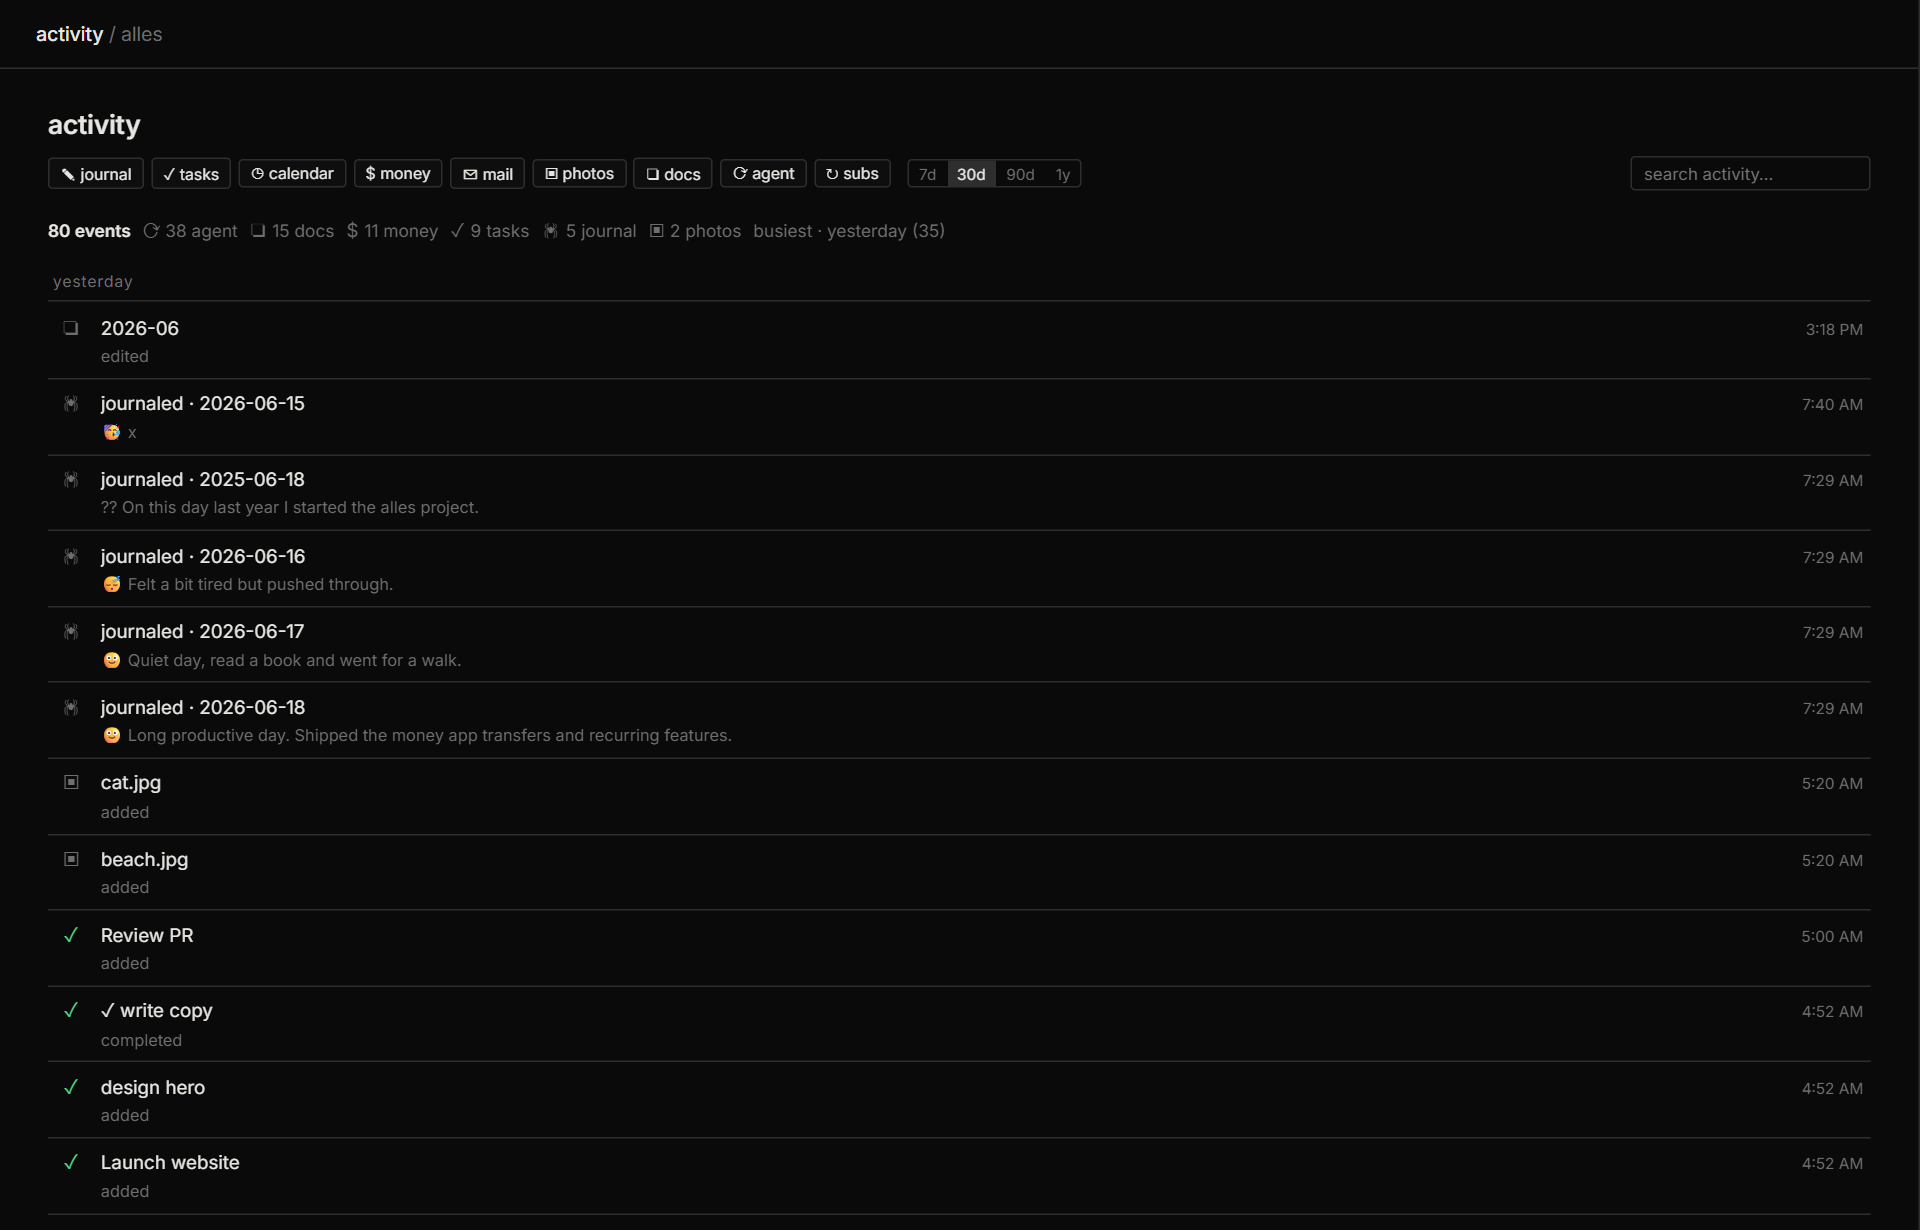
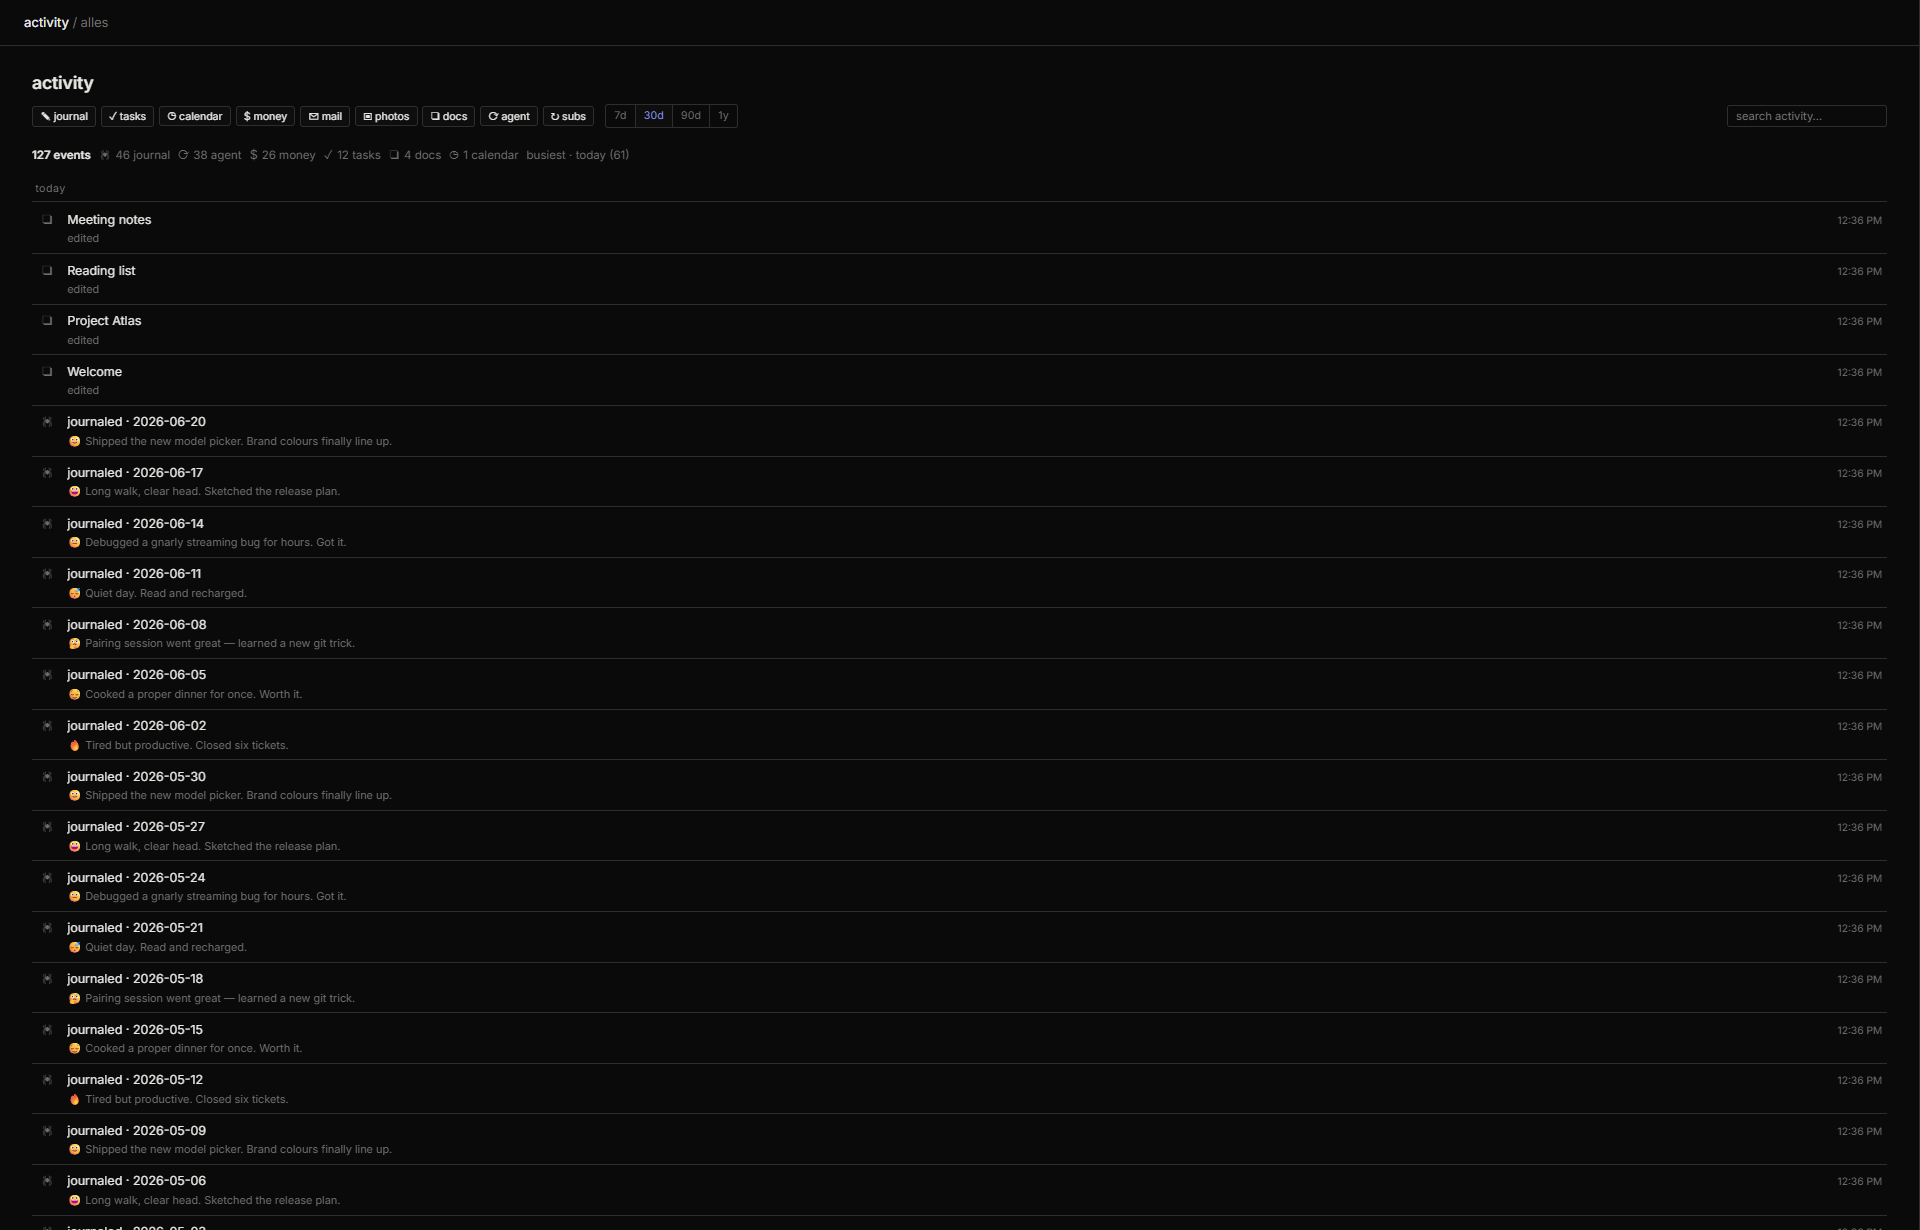
(docs) flesh-and-blood 2a: docs: regenerate screenshots and add model-picker, files, contacts shots
- recaptured every readme screenshot from a freshly-seeded demo instance (1920x1230)
- new: the model picker (brand-coloured providers, 🎨 image models, newest-only),
  files (smart folders + fixed storage bar), contacts
- seed_richdemo.py + capture_shots.mjs reproduce the demo data + shots

touches 17 files across `readme.md`, `capture_shots.mjs`, `docs`, and `tests` (+301/-0).

diff --git a/tests/seed_richdemo.py b/tests/seed_richdemo.py
@@ -1,0 +1,231 @@
+"""richer demo data for README screenshots — populated tasks/money/subs/calendar/
+days/journal/contacts + a handful of vault docs. additive + idempotent-ish (guards on
+count so a re-run doesn't pile up). NOT used by the product; screenshots only.
+
+  ALLES_DATA=…/some_data python tests/seed_richdemo.py
+"""
+
+import os
+import sys
+from datetime import datetime, timedelta
+
+sys.path.insert(0, os.path.dirname(os.path.dirname(os.path.abspath(__file__))))
+
+from core import settings as _settings  # noqa: E402
+from core.database import (  # noqa: E402
+    Account,
+    Budget,
+    Calendar,
+    CalendarEvent,
+    Contact,
+    DayEvent,
+    JournalEntry,
+    SessionLocal,
+    Subscription,
+    Task,
+    Transaction,
+)
+
+NOW = datetime.now()
+TODAY = NOW.date()
+
+
+def iso(d):
+    return d.isoformat()
+
+
+def main():
+    d = SessionLocal()
+    cnt = lambda m: d.query(m).count()  # noqa: E731
+
+    # ── tasks ────────────────────────────────────────────────────────────────
+    if cnt(Task) < 6:
+        tasks = [
+            ("Finish Q3 planning doc", 2, 1, "work,writing", "Outline + budget table"),
+            ("Email landlord about lease", 2, 0, "home", ""),
+            ("Book dentist appointment", 1, 2, "health", ""),
+            ("Renew passport", 2, 14, "travel,admin", "Photos done, form half-filled"),
+            ("Groceries — milk, eggs, coffee", 0, 0, "home", ""),
+            ("Review pull request #482", 1, 1, "work", ""),
+            ("Call mom", 1, 0, "family", ""),
+            ("Plan weekend hike", 0, 3, "outdoors", "Check the weather first"),
+            ("Pay credit card", 2, 4, "finance", ""),
+            ("Read 'The Pragmatic Programmer'", 0, 30, "reading", ""),
+        ]
+        for i, (title, pri, due_off, tags, notes) in enumerate(tasks):
+            d.add(Task(title=title, priority=pri, due_date=iso(TODAY + timedelta(days=due_off)),
+                       tags=tags, notes=notes, sort_order=i))
+        # a couple already done
+        for title in ("Submit expense report", "Water the plants"):
+            t = Task(title=title, done=True, completed_at=NOW - timedelta(days=1))
+            d.add(t)
+
+    # ── money: accounts + budgets + a month of transactions ──────────────────
+    if cnt(Account) < 3:
+        checking = Account(name="Checking", kind="checking", opening=3200.0, currency="USD", color="#818cf8")
+        savings = Account(name="Savings", kind="savings", opening=12500.0, currency="USD", color="#4ade80")
+        card = Account(name="Visa", kind="credit", opening=-640.0, currency="USD", color="#f87171")
+        d.add_all([checking, savings, card])
+        d.flush()
+        cat_payees = [
+            ("food", ["Whole Foods", "Blue Bottle", "Chipotle", "Trader Joe's"], (-9, -85)),
+            ("transport", ["Uber", "Shell", "Transit Pass"], (-3, -60)),
+            ("shopping", ["Amazon", "Uniqlo", "IKEA"], (-15, -180)),
+            ("bills", ["PG&E", "Comcast", "Water Dept"], (-40, -160)),
+            ("entertainment", ["Steam", "AMC", "Spotify"], (-10, -55)),
+            ("health", ["CVS", "Gym"], (-12, -75)),
+        ]
+        # deterministic spread (no RNG — keeps runs reproducible)
+        import itertools
+        seq = itertools.count(7)
+        for wk in range(4):
+            for cat, payees, (lo, hi) in cat_payees:
+                n = next(seq)
+                amt = lo + ((n * 37) % (hi - lo if hi != lo else 1))
+                payee = payees[n % len(payees)]
+                d.add(Transaction(account_id=checking.id, amount=float(round(amt, 2)),
+                                  category=cat, payee=payee, tags=cat,
+                                  date=iso(TODAY - timedelta(days=wk * 7 + (n % 6)))))
+        # income + a transfer-ish deposit
+        d.add(Transaction(account_id=checking.id, amount=4200.0, category="income",
+                          payee="Acme Corp — payroll", date=iso(TODAY - timedelta(days=2))))
+        d.add(Transaction(account_id=savings.id, amount=500.0, category="savings",
+                          payee="Monthly transfer", date=iso(TODAY - timedelta(days=2))))
+    if cnt(Budget) < 3:
+        for cat, lim in [("food", 600), ("shopping", 300), ("entertainment", 120), ("transport", 200)]:
+            d.add(Budget(category=cat, limit_amt=float(lim)))
+
+    # ── subscriptions ────────────────────────────────────────────────────────
+    if cnt(Subscription) < 4:
+        subs = [
+            ("Netflix", 15.99, "entertainment", 5),
+            ("Spotify", 11.99, "entertainment", 12),
+            ("iCloud+", 2.99, "software", 1),
+            ("GitHub Pro", 4.0, "software", 20),
+            ("ChatGPT Plus", 20.0, "software", 8),
+            ("Notion", 8.0, "software", 24),
+            ("NYTimes", 17.0, "news", 16),
+            ("Adobe CC", 54.99, "software", 27),
+        ]
+        for name, price, cat, due_off in subs:
+            d.add(Subscription(name=name, price=price, cycle="monthly", category=cat,
+                               next_due=iso(TODAY + timedelta(days=due_off))))
+
+    # ── calendar: a month of events ──────────────────────────────────────────
+    if not d.query(Calendar).count():
+        d.add(Calendar(name="Personal", color="#818cf8"))
+        d.flush()
+    if not d.query(Calendar).filter(Calendar.name == "Work").count():
+        d.add(Calendar(name="Work", color="#4d9ef5"))
+        d.flush()
+    if cnt(CalendarEvent) < 4:
+        personal = d.query(Calendar).filter(Calendar.name == "Personal").first()
+        work = d.query(Calendar).filter(Calendar.name == "Work").first()
+        evs = [
+            (work, "Team standup", -2, 9, 1, False),
+            (work, "1:1 with Sam", 0, 14, 1, False),
+            (work, "Design review", 1, 11, 2, False),
+            (work, "Sprint demo", 3, 15, 1, False),
+            (personal, "Dentist", 1, 8, 1, False),
+            (personal, "Gym — leg day", 0, 18, 1, False),
+            (personal, "Dinner w/ Alex", 2, 19, 2, False),
+            (personal, "Farmers market", 4, 9, 2, False),
+            (personal, "Mom's birthday", 6, 0, 0, True),
+            (work, "Quarterly offsite", 8, 0, 0, True),
+        ]
+        for cal, title, day_off, hr, dur, allday in evs:
+            start = (NOW + timedelta(days=day_off)).replace(hour=hr, minute=0, second=0, microsecond=0)
+            d.add(CalendarEvent(calendar_id=cal.id, title=title,
+                               start_dt=start.isoformat(),
+                               end_dt=(start + timedelta(hours=dur or 1)).isoformat(),
+                               all_day=allday))
+
+    # ── days: countdowns + anniversaries ─────────────────────────────────────
+    if cnt(DayEvent) < 4:
+        days = [
+            ("New Year", "2027-01-01", "holiday", True),
+            ("Trip to Japan", iso(TODAY + timedelta(days=43)), "travel", True),
+            ("Project launch", iso(TODAY + timedelta(days=12)), "work", False),
+            ("Started this job", "2023-04-17", "milestone", False),
+            ("Anniversary", "2019-09-21", "personal", True),
+            ("Lease renewal", iso(TODAY + timedelta(days=78)), "home", False),
+        ]
+        for name, date_, cat, pin in days:
+            d.add(DayEvent(name=name, date=date_, category=cat, pinned=pin))
+
+    # ── journal: spread across ~16 weeks so the heatmap looks alive ───────────
+    if cnt(JournalEntry) < 10:
+        moods = ["🙂", "😀", "😐", "😴", "🤔", "😌", "🔥"]
+        notes = [
+            "Shipped the new model picker. Brand colours finally line up.",
+            "Long walk, clear head. Sketched the release plan.",
+            "Debugged a gnarly streaming bug for hours. Got it.",
+            "Quiet day. Read and recharged.",
+            "Pairing session went great — learned a new git trick.",
+            "Cooked a proper dinner for once. Worth it.",
+            "Tired but productive. Closed six tickets.",
+        ]
+        for i in range(46):
+            day = TODAY - timedelta(days=i * 3)   # every 3 days → unique, ~4 months of heatmap
+            if d.query(JournalEntry).filter(JournalEntry.date == iso(day)).count():
+                continue
+            d.add(JournalEntry(date=iso(day), content=notes[i % len(notes)],
+                              mood=moods[i % len(moods)], tags="daily"))
+
+    # ── contacts ─────────────────────────────────────────────────────────────
+    if cnt(Contact) < 4:
+        people = [
+            ("Ada Lovelace", "ada@analytical.io", "Analytical Engines", "Mathematician", True),
+            ("Alan Turing", "alan@bletchley.uk", "Bletchley", "Cryptographer", False),
+            ("Grace Hopper", "grace@navy.mil", "US Navy", "Rear Admiral", True),
+            ("Katherine Johnson", "kj@nasa.gov", "NASA", "Mathematician", False),
+            ("Sam Rivera", "sam@acme.co", "Acme Corp", "Manager", False),
+            ("Alex Chen", "alex@example.com", "Freelance", "Designer", False),
+        ]
+        for name, email, company, title, fav in people:
+            d.add(Contact(name=name, email=email, company=company, title=title, favorite=fav))
+
+    d.commit()
+    out = {m.__name__: cnt(m) for m in [Task, Transaction, Subscription, CalendarEvent,
+                                        DayEvent, JournalEntry, Contact, Budget]}
+    print("rich-seeded:", out)
+
+    # ── demo docs (.md files in the vault) ───────────────────────────────────
+    vault = os.path.join(_settings.data_dir(), "vault")
+    os.makedirs(vault, exist_ok=True)
+    docs = {
+        "Welcome.md": (
+            "---\ntags: [start-here]\n---\n\n"
+            "# Welcome to your vault\n\n"
+            "These are plain `.md` files you own. Try [[Project Atlas]] or the "
+            "[[Reading list]]. Tag things with #ideas and link freely.\n\n"
+            "- [ ] explore the graph view\n- [x] write your first note\n"
+        ),
+        "Project Atlas.md": (
+            "---\ntags: [work, project]\n---\n\n"
+            "# Project Atlas\n\n"
+            "The big one. See [[Welcome]] for context and [[Meeting notes]].\n\n"
+            "## Milestones\n- [x] kickoff\n- [ ] beta\n- [ ] launch\n\n"
+            "> The map is not the territory. #ideas\n"
+        ),
+        "Meeting notes.md": (
+            "---\ntags: [work]\n---\n\n"
+            "# Meeting notes\n\nStandup w/ [[Project Atlas]] team.\n\n"
+            "- shipped the model picker\n- next: docs polish\n"
+        ),
+        "Reading list.md": (
+            "---\ntags: [reading]\n---\n\n"
+            "# Reading list\n\n- The Pragmatic Programmer\n- Thinking in Systems\n"
+            "- Designing Data-Intensive Applications #ideas\n"
+        ),
+    }
+    for name, body in docs.items():
+        p = os.path.join(vault, name)
+        if not os.path.exists(p):
+            with open(p, "w", encoding="utf-8") as f:
+                f.write(body)
+    print("docs written to", vault)
+
+
+if __name__ == "__main__":
+    main()

diff --git a/README.md b/README.md
@@ -91,6 +91,10 @@ every one of these is a real, finished app — not a placeholder. they each live
 
 <p align="center"><img src="docs/screenshots/aide.png" width="760" alt="aide — model switcher, agent/chat toggle, chat history + tools sidebar"></p>
 
+**the model picker** — every endpoint you add shows up here, each provider in its own brand colour with its real logo (OpenAI green, Anthropic gold, Moonshot purple — never mistaken for one another). image-generation models are flagged with a 🎨, so you can run a **chat model and an image model together** (talk to Sonnet, draw with gpt-image). a **newest-only** toggle collapses each family to its latest release, and the list refreshes from every provider — with a built-in fallback line-up so it's already populated before you've even added a key.
+
+<p align="center"><img src="docs/screenshots/models.png" width="760" alt="the model picker — every provider in its brand colour, image models flagged with 🎨, a newest-only toggle"></p>
+
 ### home
 **plain version:** the front page. a launcher you can arrange however you like, with a box to jot something down fast.
 
@@ -235,6 +239,9 @@ this is the most feature-dense app, so here's the full list:
 - browse folders, upload, rename, delete, and **search** — by filename *and* inside text files, with a snippet of where the match was
 - **inline preview** without downloading: images, **pdfs** (in a real pdf viewer), **video**, **audio**, and text/markdown
 - download anything with one click
+- **smart folders** (recent / images / documents / large / starred / recently-deleted) and a storage bar showing real disk usage, free space, and what the vault itself takes up
+
+<p align="center"><img src="docs/screenshots/files.png" width="760" alt="files — smart folders, search, and a storage bar with real free/used disk space"></p>
 
 ### gallery
 **plain version:** a local photo library that feels like icloud/google photos, minus the company.
@@ -250,6 +257,8 @@ this is the most feature-dense app, so here's the full list:
 
 - name / email / phone / notes / tags, searchable
 - **vCard import / export** — round-trips with your phone and any other address book
+
+<p align="center"><img src="docs/screenshots/contacts.png" width="760" alt="contacts — a searchable address book the ai can read when drafting mail"></p>
 
 ### system
 **plain version:** a live look at how hard your computer is working — like Task Manager / Activity Monitor, built in.
